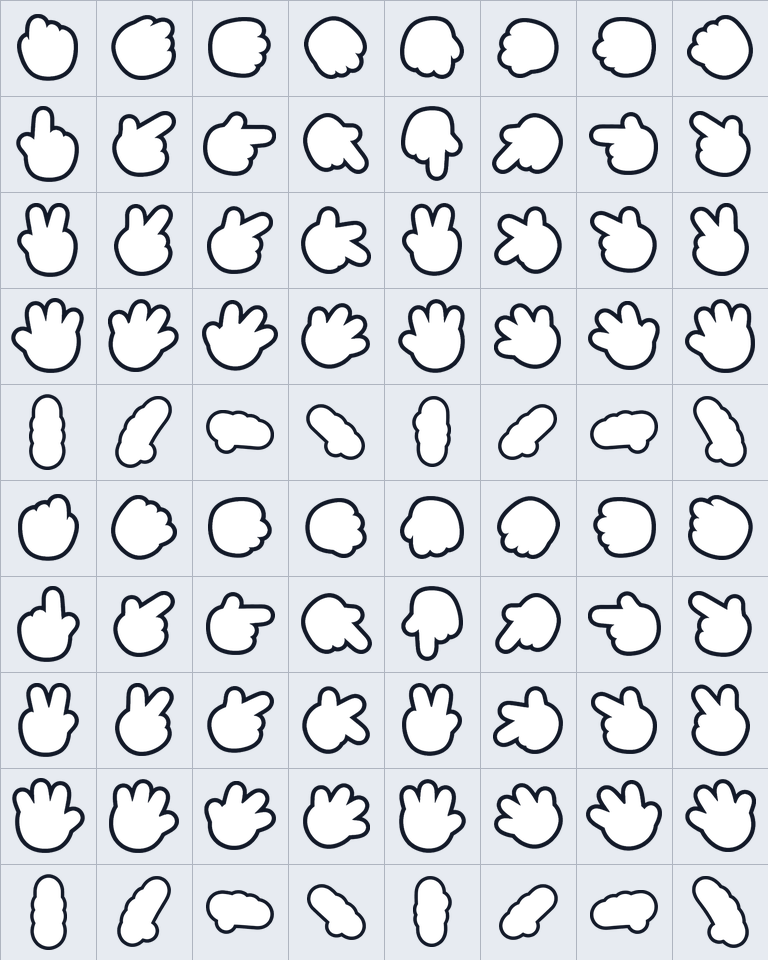
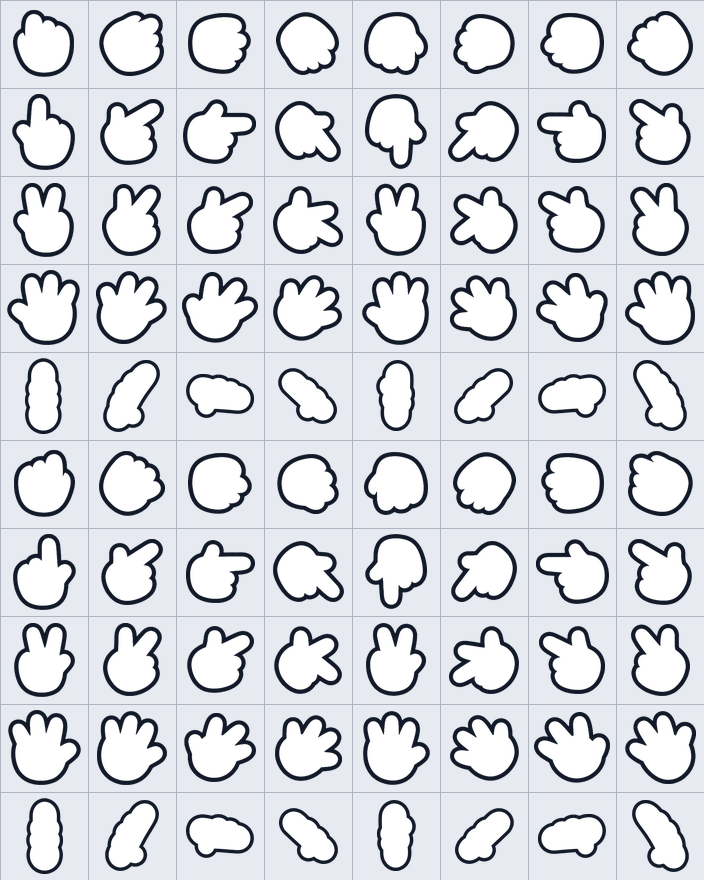
fix(ui): fit hand sprites in firmware bundle

diff --git a/firmware/host/modules/ui/components/hands/hands.ts b/firmware/host/modules/ui/components/hands/hands.ts
@@ -16,6 +16,7 @@ import Timeline from 'piu/Timeline'
 const ANIMATION_INTERVAL_MS = 100
 const HAND_SCREEN_WIDTH = 320
 const HALF_CELL = HAND_SPRITE_CELL_SIZE / 2
+const HAND_EDGE_CENTER_X = 48
 
 export const HAND_ANIMATION_NAMES = ['none', 'rock-paper-scissors', 'clap', 'thinking'] as const
 
@@ -111,8 +112,8 @@ function hand(shape: HandSpriteState, x: number, y: number, r: number): HandStat
 
 function pair(shape: HandSpriteState, y: number): HandPairState {
   return {
-    left: hand(shape, HALF_CELL, y, Math.PI / 4),
-    right: hand(shape, HAND_SCREEN_WIDTH - HALF_CELL, y, -Math.PI / 4),
+    left: hand(shape, HAND_EDGE_CENTER_X, y, Math.PI / 4),
+    right: hand(shape, HAND_SCREEN_WIDTH - HAND_EDGE_CENTER_X, y, -Math.PI / 4),
   }
 }
 
@@ -127,7 +128,7 @@ function clap(closed: boolean): HandPairState {
 function thinking(lowered: boolean): HandPairState {
   const inset = lowered ? 72 : 66
   return {
-    right: hand('point', HAND_SCREEN_WIDTH - inset - HALF_CELL, lowered ? 172 : 168, -Math.PI / 4),
+    right: hand('point', HAND_SCREEN_WIDTH - inset - HAND_EDGE_CENTER_X, lowered ? 172 : 168, -Math.PI / 4),
   }
 }
 
@@ -162,7 +163,7 @@ function defaultCompiledHand(handedness: Handedness): CompiledHandFrame {
   return {
     visible: false,
     shape: 'fist',
-    x: handedness === 'left' ? HALF_CELL : HAND_SCREEN_WIDTH - HALF_CELL,
+    x: handedness === 'left' ? HAND_EDGE_CENTER_X : HAND_SCREEN_WIDTH - HAND_EDGE_CENTER_X,
     y: 144,
     rotationUnits: 0,
   }
@@ -235,10 +236,10 @@ class HandsBehavior extends Behavior {
   #inner = toPiuColorString(DEFAULT_FACE_SECONDARY_COLOR)
   #loop = false
   #motion: MotionModel = {
-    leftX: HALF_CELL,
+    leftX: HAND_EDGE_CENTER_X,
     leftY: 144,
     leftRotation: 0,
-    rightX: HAND_SCREEN_WIDTH - HALF_CELL,
+    rightX: HAND_SCREEN_WIDTH - HAND_EDGE_CENTER_X,
     rightY: 144,
     rightRotation: 0,
   }
@@ -254,7 +255,7 @@ class HandsBehavior extends Behavior {
     shape: 'fist',
     direction: 'up',
     directionIndex: 0,
-    x: HALF_CELL,
+    x: HAND_EDGE_CENTER_X,
     y: 144,
     sourceX: 0,
     sourceY: handSpriteRow('left', 'fist') * HAND_SPRITE_CELL_SIZE,
@@ -266,7 +267,7 @@ class HandsBehavior extends Behavior {
     shape: 'fist',
     direction: 'up',
     directionIndex: 0,
-    x: HAND_SCREEN_WIDTH - HALF_CELL,
+    x: HAND_SCREEN_WIDTH - HAND_EDGE_CENTER_X,
     y: 144,
     sourceX: 0,
     sourceY: handSpriteRow('right', 'fist') * HAND_SPRITE_CELL_SIZE,

diff --git a/firmware/host/modules/ui/components/face/parts/image/__tests__/image-avatar-pack.architecture.ts b/firmware/host/modules/ui/components/face/parts/image/__tests__/image-avatar-pack.architecture.ts
@@ -18,11 +18,12 @@ test('UI manifests leave ImageAvatarLite sprites to the sample MOD', () => {
   for (const manifestPath of ['host/modules/ui/manifest.json', 'host/modules/ui/manifest_wasm.json']) {
     const manifest = JSON.parse(readFileSync(manifestPath, 'utf-8'))
     const alphaResources = (manifest.resources['*-alpha'] ?? []) as string[]
+    const maskResources = (manifest.resources['*-mask'] ?? []) as string[]
     const colorResources = (manifest.resources['*-color'] ?? []) as string[]
     const combinedResources = (manifest.resources['*'] ?? []) as string[]
 
     assert.equal(
-      [...alphaResources, ...colorResources, ...combinedResources].some((resource) =>
+      [...alphaResources, ...maskResources, ...colorResources, ...combinedResources].some((resource) =>
         resource.includes('image-avatar-lite'),
       ),
       false,

diff --git a/firmware/host/modules/ui/components/hands/hand-sprites.ts b/firmware/host/modules/ui/components/hands/hand-sprites.ts
@@ -1,5 +1,5 @@
 /** Fixed cells let the renderer switch authored poses without runtime scaling or layout. */
-export const HAND_SPRITE_CELL_SIZE = 96
+export const HAND_SPRITE_CELL_SIZE = 88
 export const HAND_SPRITE_ATLAS_WIDTH = HAND_SPRITE_CELL_SIZE * 8
 export const HAND_SPRITE_ATLAS_HEIGHT = HAND_SPRITE_CELL_SIZE * 10
 export const HAND_ROTATION_UNITS_PER_TURN = 8192

diff --git a/firmware/host/modules/ui/components/hands/tools/build-static-atlas.py b/firmware/host/modules/ui/components/hands/tools/build-static-atlas.py
@@ -13,7 +13,7 @@ from PIL import Image, ImageChops, ImageDraw
 BASE_STATE_COUNT = 4
 STATE_COUNT = 5
 DIRECTION_COUNT = 8
-CELL_SIZE = 96
+CELL_SIZE = 88
 TARGET_EXTENT = 76
 MIRRORED_DIRECTION = (0, 7, 6, 5, 4, 3, 2, 1)
 

diff --git a/firmware/host/modules/ui/components/hands/assets/README.md b/firmware/host/modules/ui/components/hands/assets/README.md
@@ -4,10 +4,12 @@ The runtime hand colors are not baked into these images. Draw
 `hands-outer-mask.png` with the face primary color, then draw
 `hands-inner-mask.png` at the same position with the face secondary color.
 The UI manifests use Moddable's supported `*-alpha-monochrome` resource target
-so both masks stay compact four-bit alpha textures while retaining their PNG
+so both masks stay compact one-bit alpha textures while retaining their PNG
 resource names at the Piu API boundary.
 
-Both atlases are 768 x 960 pixels and use 96 x 96 pixel cells.
+Both atlases are 704 x 880 pixels and use 88 x 88 pixel cells. The artwork
+still has a maximum 76-pixel extent; the smaller cells only remove transparent
+padding and do not scale the hands at runtime.
 
 Columns, from left to right:
 

diff --git a/.changeset/tiny-hands-wave.md b/.changeset/tiny-hands-wave.md
@@ -2,4 +2,4 @@
 "stack-chan": minor
 ---
 
-Add theme-colored animated hand sprites with drawer choices for rock-paper-scissors, clapping, and thinking.
+Add memory-efficient theme-colored animated hand sprites with drawer choices for rock-paper-scissors, clapping, and thinking, and RLE-compress existing UI masks.
